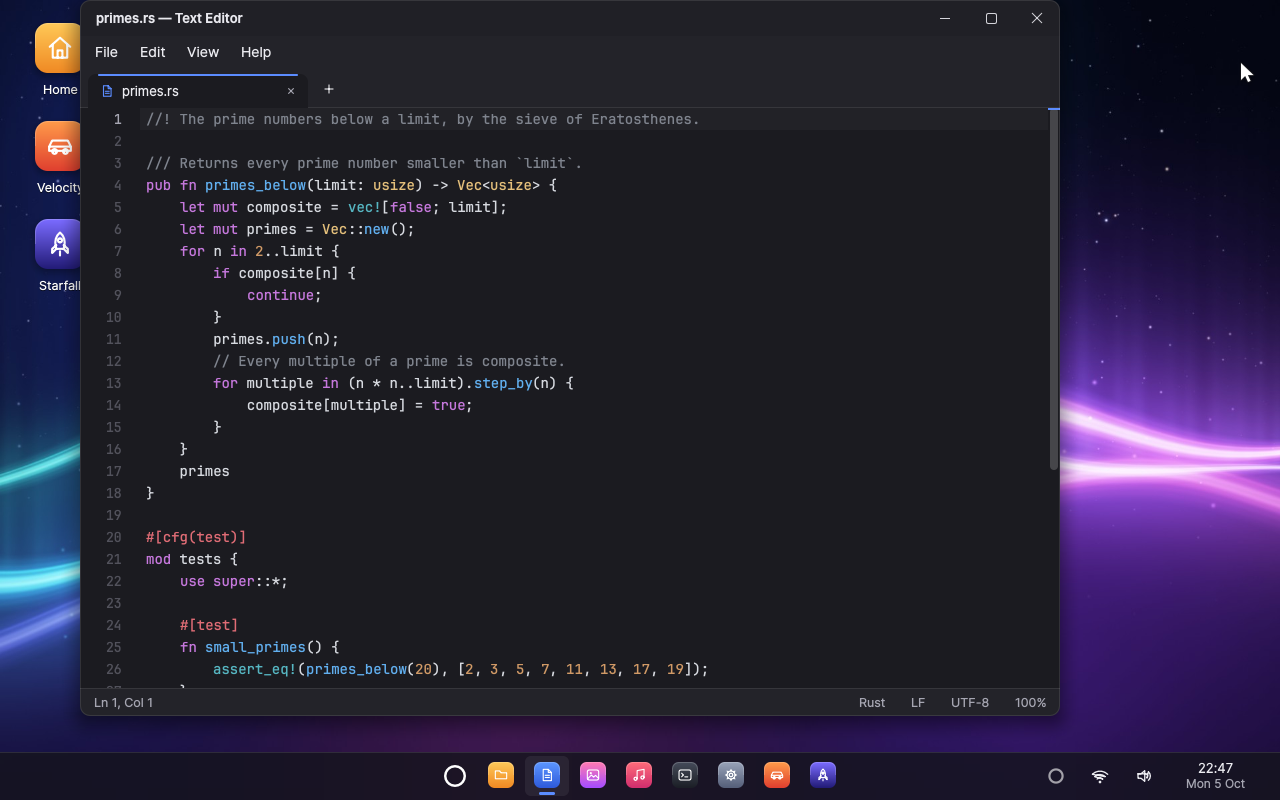
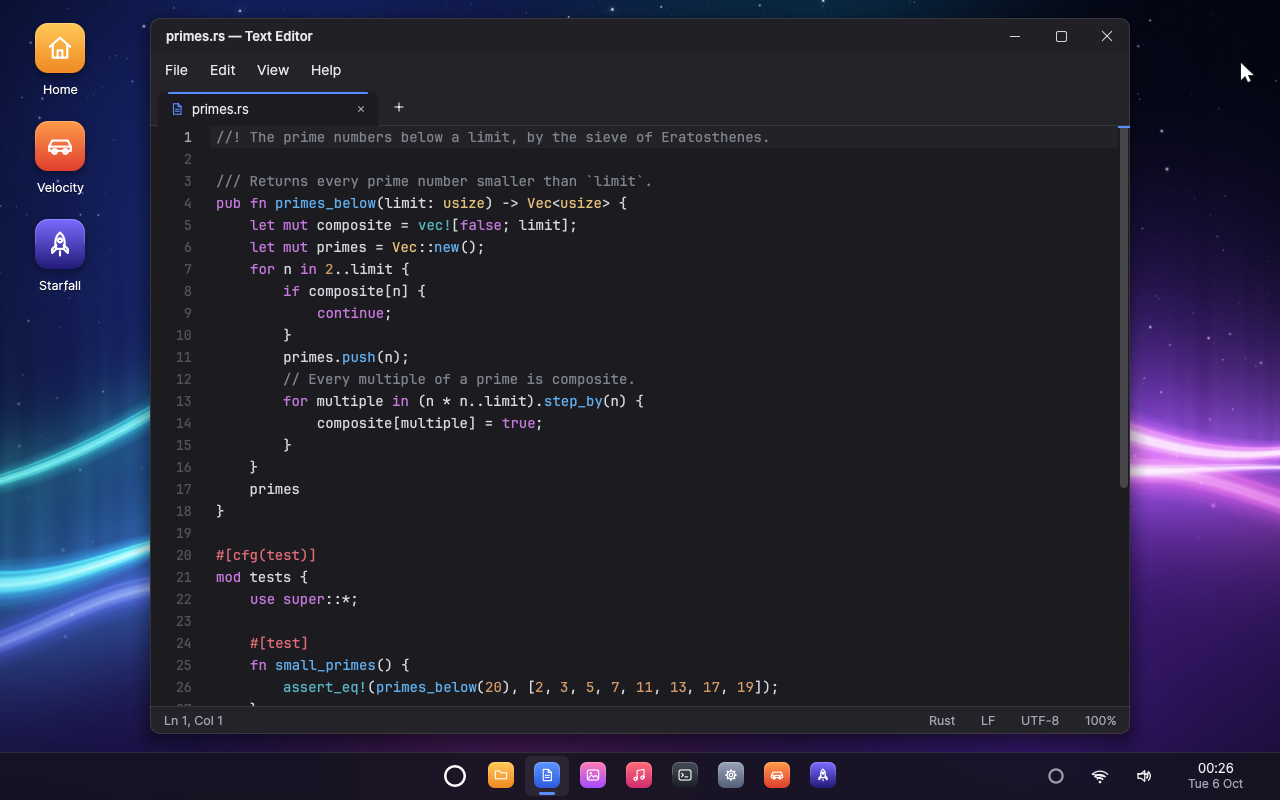
fix(compositor): open new windows centred and fit Photos on screen

diff --git a/services/compositor/src/state.rs b/services/compositor/src/state.rs
@@ -107,11 +107,12 @@ pub(crate) struct Compositor {
 }
 
 /// The client rectangle of an automatically placed `w` x `h` window, with a
-/// title bar `tb` high, in cascade slot `slot` of the work area `area`.
-fn auto_rect(area: Rect, w: i32, h: i32, tb: i32, slot: i32) -> Rect {
-    let x = area.x + (area.w - w) / 2 + slot * 28 - 70;
-    let y = area.y + (area.h - h - tb) / 2 + slot * 28 - 50;
-    Rect::new(x.clamp(area.x, (area.right() - w).max(area.x)), y.max(area.y) + tb, w, h)
+/// title bar `tb` high: centred in the work area `area`, its top-left corner
+/// kept inside when the window is larger than the area.
+fn auto_rect(area: Rect, w: i32, h: i32, tb: i32) -> Rect {
+    let x = area.x + (area.w - w) / 2;
+    let y = area.y + (area.h - h - tb) / 2;
+    Rect::new(x.max(area.x), y.max(area.y) + tb, w, h)
 }
 
 /// The stacking layer of a window (higher layers are drawn on top). The
@@ -190,8 +191,8 @@ impl Compositor {
                 continue;
             }
             let tb = if w.kind == WindowKind::Normal { TITLE_HEIGHT } else { 0 };
-            if let Some(slot) = w.auto_slot {
-                w.restore_rect = auto_rect(area, w.restore_rect.w, w.restore_rect.h, tb, slot);
+            if w.auto_placed {
+                w.restore_rect = auto_rect(area, w.restore_rect.w, w.restore_rect.h, tb);
             }
             let target = match (w.state, w.snapped) {
                 (WindowState::Maximized, _) => Rect::new(area.x, area.y + TITLE_HEIGHT, area.w, area.h - TITLE_HEIGHT),
@@ -199,7 +200,7 @@ impl Compositor {
                     let r = snap.rect(area);
                     Rect::new(r.x, r.y + TITLE_HEIGHT, r.w, r.h - TITLE_HEIGHT)
                 }
-                (WindowState::Normal, None) if w.auto_slot.is_some() => w.restore_rect,
+                (WindowState::Normal, None) if w.auto_placed => w.restore_rect,
                 _ => continue,
             };
             if target == w.client_rect {
@@ -268,21 +269,18 @@ impl Compositor {
         self.focus(top);
     }
 
-    /// Where a new window goes: where the client asked, or cascaded around
-    /// the centre of the work area. Returns the client rectangle and, for
-    /// automatically placed windows, their cascade slot.
-    pub(crate) fn place_new_window(&self, spec: &WindowSpec) -> (Rect, Option<i32>) {
+    /// Where a new window goes: where the client asked, or in the centre of
+    /// the work area. Returns the client rectangle and whether the window
+    /// was placed automatically.
+    pub(crate) fn place_new_window(&self, spec: &WindowSpec) -> (Rect, bool) {
         let (w, h) = (spec.width as i32, spec.height as i32);
         let tb = if spec.kind == WindowKind::Normal { TITLE_HEIGHT } else { 0 };
         if spec.x != i32::MIN && spec.y != i32::MIN {
-            return (Rect::new(spec.x, spec.y + tb, w, h), None);
+            return (Rect::new(spec.x, spec.y + tb, w, h), false);
         }
         match spec.kind {
-            WindowKind::Desktop => (self.screen_rect(), None),
-            _ => {
-                let slot = self.windows.values().filter(|w| w.kind == WindowKind::Normal).count() as i32 % 6;
-                (auto_rect(self.work_area, w, h, tb, slot), Some(slot))
-            }
+            WindowKind::Desktop => (self.screen_rect(), false),
+            _ => (auto_rect(self.work_area, w, h, tb), true),
         }
     }
 
@@ -358,7 +356,7 @@ impl Compositor {
         let Some(w) = self.windows.get_mut(&id) else { return };
         let before = w.paint_bounds();
         w.snapped = None;
-        w.auto_slot = None;
+        w.auto_placed = false;
         w.client_rect = Rect::new(x - (rest.w as f32 * frac) as i32, y + TITLE_HEIGHT / 2, rest.w, rest.h);
         let (c, st) = (w.client_rect, w.state);
         let after = w.paint_bounds();
@@ -399,7 +397,7 @@ impl Compositor {
             w.restore_rect = w.client_rect;
         }
         w.snapped = Some(snap);
-        w.auto_slot = None;
+        w.auto_placed = false;
         let before = w.paint_bounds();
         w.client_rect = Rect::new(r.x, r.y + TITLE_HEIGHT, r.w, r.h - TITLE_HEIGHT);
         let (c, st) = (w.client_rect, w.state);

diff --git a/services/compositor/src/session.rs b/services/compositor/src/session.rs
@@ -48,7 +48,7 @@ impl display::Server for Session<'_> {
         let (ours, theirs) = Channel::create().map_err(|_| DisplayError::NoMemory)?;
         let id = self.comp.next_id;
         self.comp.next_id += 1;
-        let (rect, auto_slot) = self.comp.place_new_window(&spec);
+        let (rect, auto_placed) = self.comp.place_new_window(&spec);
         let animate = spec.kind == WindowKind::Normal || spec.kind == WindowKind::Popup;
         let win = Window {
             id,
@@ -70,7 +70,7 @@ impl display::Server for Session<'_> {
             anim: animate.then(|| Anim { kind: AnimKind::Open, start: vrt::time::now_ns(), duration: 180_000_000 }),
             closing: false,
             snapped: None,
-            auto_slot,
+            auto_placed,
         };
         let kind = win.kind;
         self.comp.windows.insert(id, win);
@@ -220,7 +220,7 @@ impl display::Server for Session<'_> {
         let w = self.comp.windows.get_mut(&id).unwrap();
         let tb = if w.decorated() { TITLE_HEIGHT } else { 0 };
         w.client_rect = Rect::new(x, y + tb, w.client_rect.w, w.client_rect.h);
-        w.auto_slot = None;
+        w.auto_placed = false;
         self.comp.damage_window(id);
         if self.comp.windows[&id].kind == WindowKind::Panel {
             self.comp.update_work_area();

diff --git a/services/compositor/src/input.rs b/services/compositor/src/input.rs
@@ -63,7 +63,7 @@ impl Compositor {
                     let before = w.paint_bounds();
                     let ny = (y - dy).max(area.y + TITLE_HEIGHT).min(area.bottom() - 8);
                     w.client_rect = Rect::new(x - dx, ny, w.client_rect.w, w.client_rect.h);
-                    w.auto_slot = None;
+                    w.auto_placed = false;
                     let after = w.paint_bounds();
                     self.damage.add(before);
                     self.damage.add(after);
@@ -91,7 +91,7 @@ impl Compositor {
                     }
                     if r != w.client_rect {
                         w.client_rect = r;
-                        w.auto_slot = None;
+                        w.auto_placed = false;
                         let after = w.paint_bounds();
                         self.damage.add(before);
                         self.damage.add(after);

diff --git a/services/compositor/src/window.rs b/services/compositor/src/window.rs
@@ -105,9 +105,9 @@ pub struct Window {
     pub closing: bool,
     /// Snapped to half of the screen (dragging restores `restore_rect`).
     pub snapped: Option<Snap>,
-    /// Placed automatically in this cascade slot and not moved by the user
-    /// since: the window is placed again when the work area changes.
-    pub auto_slot: Option<i32>,
+    /// Placed automatically (centred) and not moved by the user since: the
+    /// window is placed again when the work area changes.
+    pub auto_placed: bool,
 }
 
 impl Window {

diff --git a/apps/photos/src/main.rs b/apps/photos/src/main.rs
@@ -45,7 +45,7 @@ vrt::entry!(main);
 /// At most this many pictures keep their thumbnails in memory (about 0.6 MB each).
 const MAX_THUMBS: usize = 240;
 /// The window's size when it opens.
-const WINDOW_SIZE: (i32, i32) = (1100, 720);
+const WINDOW_SIZE: (i32, i32) = (1100, 640);
 
 /// What the window shows.
 #[derive(Debug, Clone, Copy, PartialEq, Eq)]
